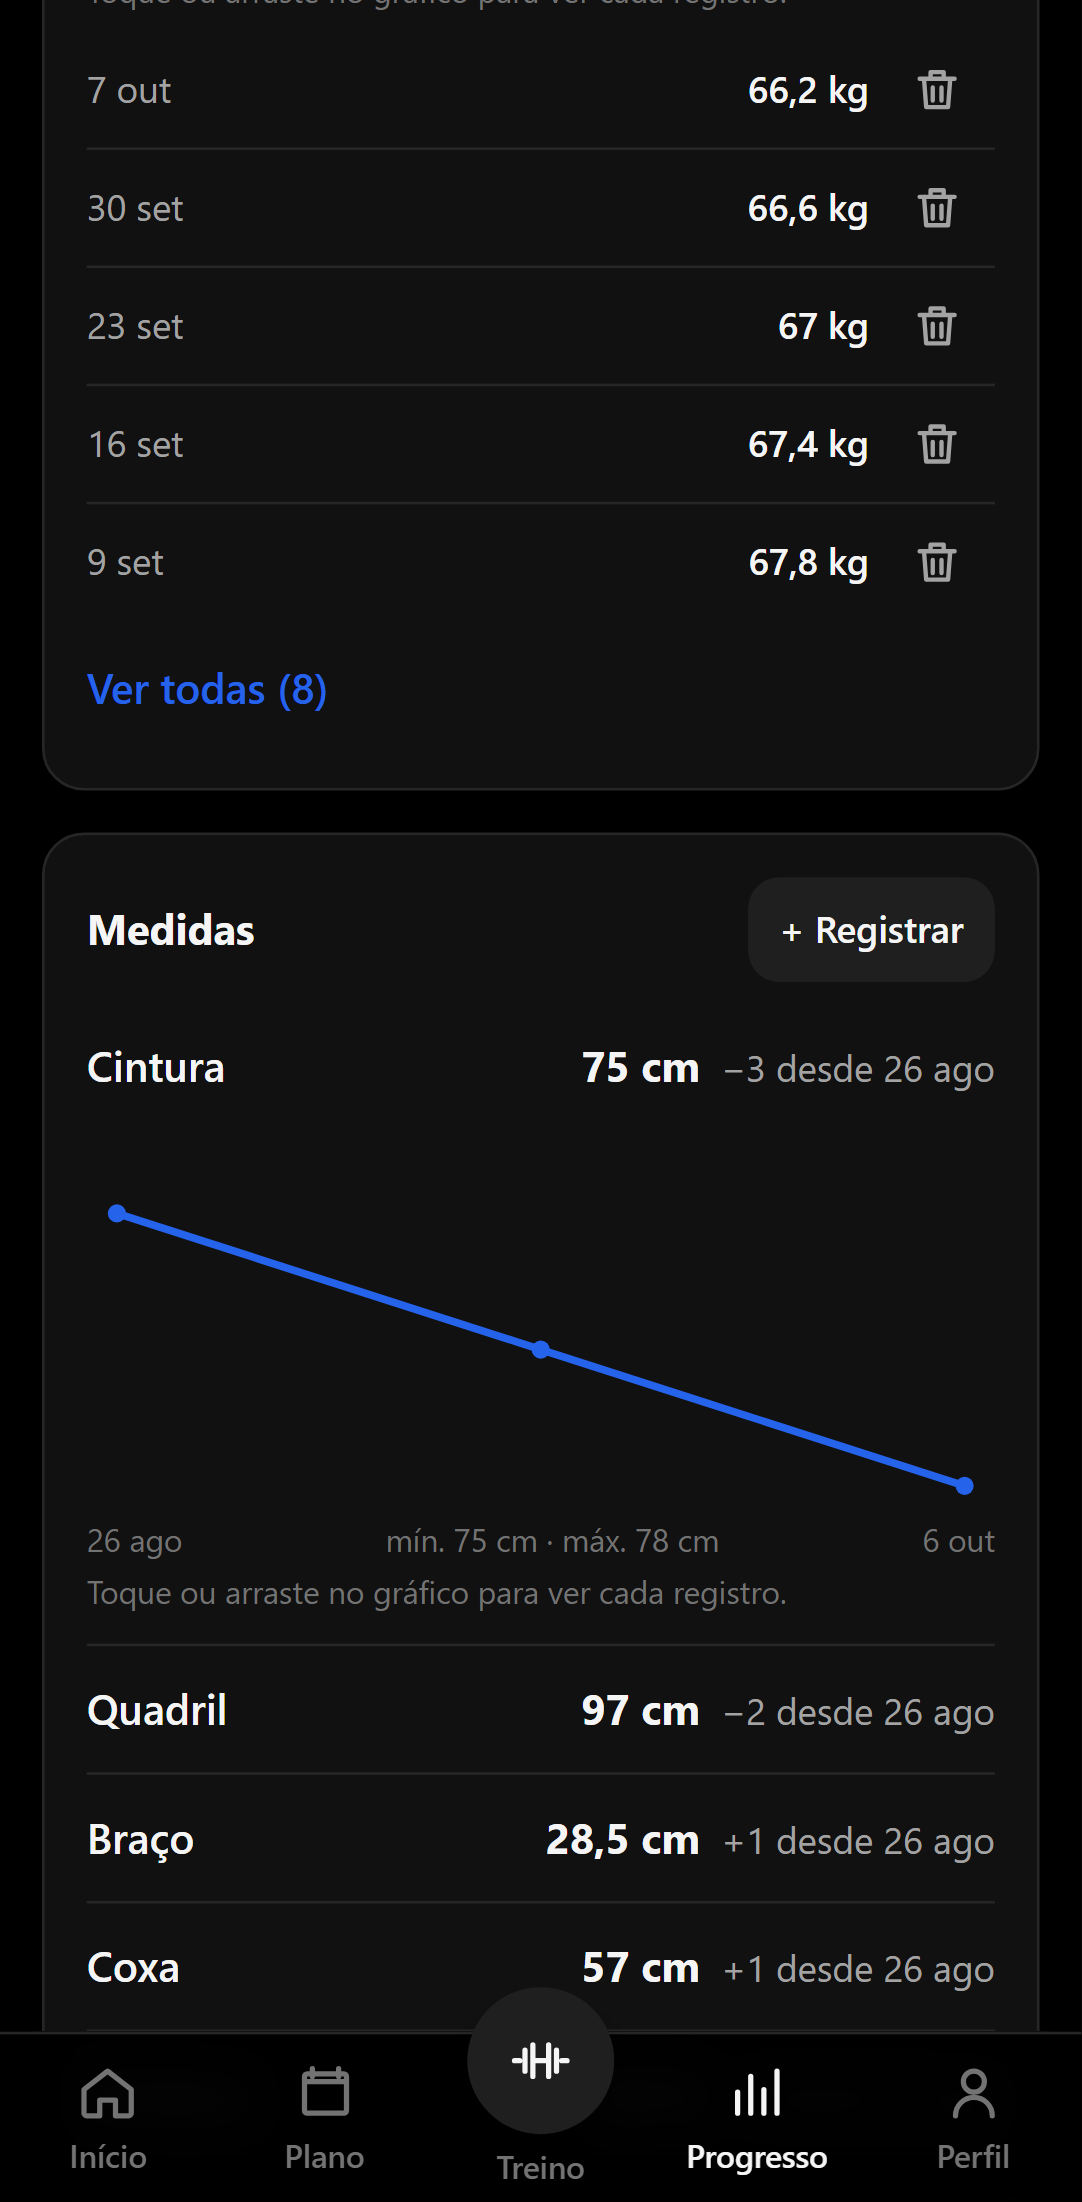
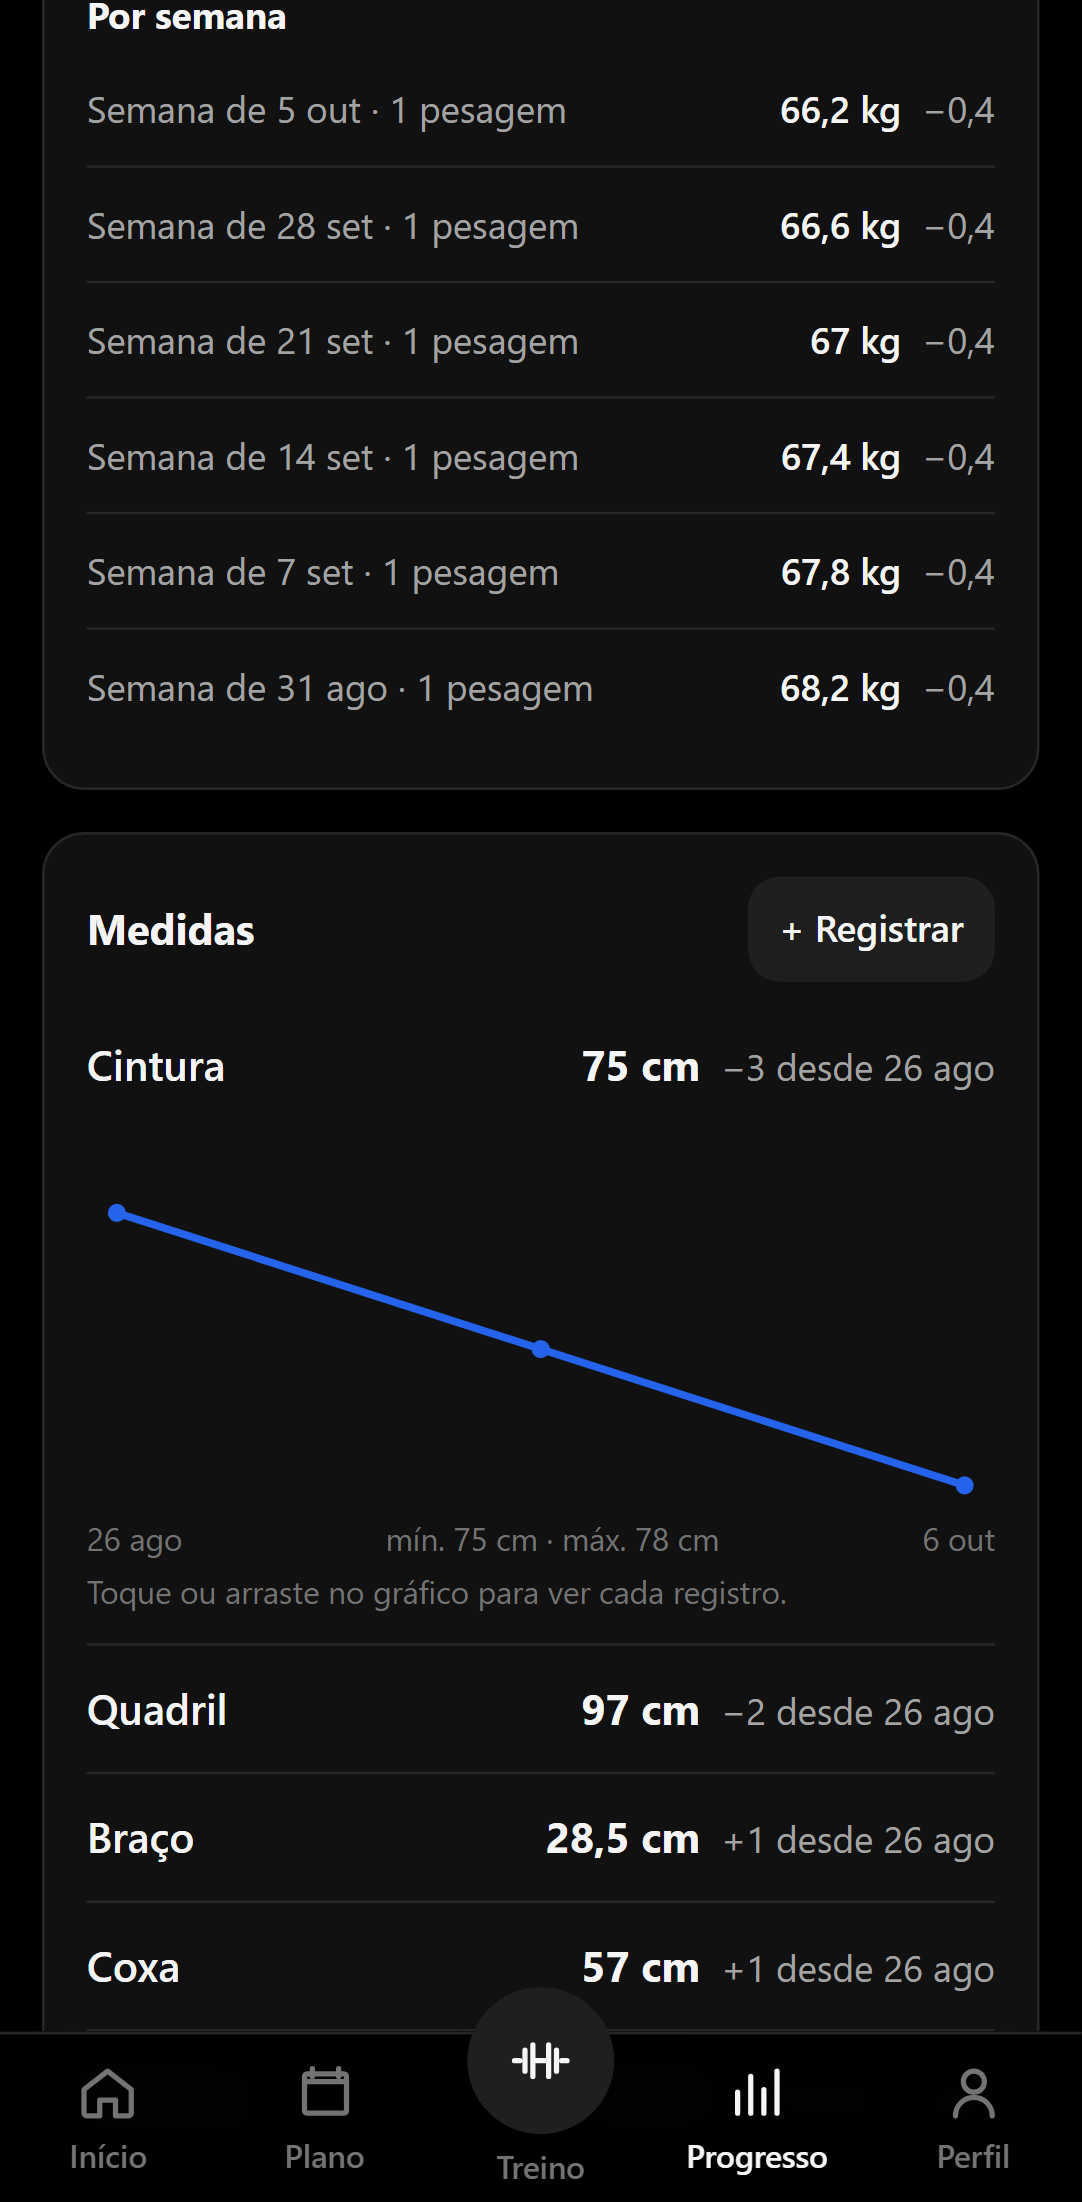
docs: capturas e funções do README atualizadas (superset, favoritos, treino livre, compartilhar plano)

diff --git a/app/scripts/screenshots/readme-screens.spec.ts b/app/scripts/screenshots/readme-screens.spec.ts
@@ -24,6 +24,9 @@ function demoData(): AppData {
   for (const day of Object.values(plan.days)) {
     day.exercises.forEach((e, i) => { if (e.mode === 'reps') e.weight = Math.max(10, 40 - i * 6); });
   }
+  // superset nos dois supinos do treino A (aparece na captura do treino)
+  const a = plan.rotation ? plan.days[plan.rotation.order[0]!] : undefined;
+  if (a && a.exercises.length > 1) { a.exercises[0]!.superset = 'demo'; a.exercises[1]!.superset = 'demo'; }
   data.plans[plan.id] = plan;
   data.activePlanId = plan.id;
 
@@ -66,7 +69,7 @@ function demoData(): AppData {
     [addDays(today, -21)]: { cintura: 76.5, quadril: 98, braco: 28, coxa: 56.5, gordura: 25.5 },
     [addDays(today, -1)]: { cintura: 75, quadril: 97, braco: 28.5, coxa: 57, gordura: 24 }
   };
-  data.settings = { ...data.settings, trainingReminders: false };
+  data.settings = { ...data.settings, trainingReminders: false, favorites: ['supino reto (barra)'] };
   data.meta = { ...data.meta, lastSeenVersion: pkg.version, lastBackupAt: NOW.toISOString(), hintsSeen: { welcome: true, progressao: true, iosInstall: true } };
   return data;
 }
@@ -100,7 +103,10 @@ test('capturas do README', async ({ page }) => {
   await expect(page.getByText(/kg:|Mantém/).first()).toBeVisible();
   const first = page.getByRole('article').first();
   await first.getByRole('button', { name: 'Série 1 feita' }).click();
-  await page.getByRole('button', { name: 'Pular' }).click();
+  // no superset a série não abre o descanso; se abrir, pula
+  const skip = page.getByRole('button', { name: 'Pular' });
+  if (await skip.isVisible()) await skip.click();
+  await page.evaluate(() => window.scrollTo(0, 0));
   await shot(page, 'treino');
 
   await page.getByRole('button', { name: 'Plano', exact: true }).click();

diff --git a/README.md b/README.md
@@ -13,10 +13,12 @@ offline, não tem anúncios nem cadastro, e os dados ficam no seu aparelho.
 
 - **Plano de treino** por dia da semana ou em **rotação A/B/C**: na rotação, o próximo treino é o
   seguinte ao último feito, em qualquer dia. Modelos prontos (corpo inteiro, em casa, ABC,
-  superior/inferior, Push/Pull/Legs, força 5×5) ou montado com ajuda de uma IA.
+  superior/inferior, Push/Pull/Legs, força 5×5), "Montar meu plano" em cinco perguntas ou com
+  ajuda de uma IA. Compartilhe o plano por arquivo, sem levar nenhum dado pessoal.
 - **Treino guiado:** séries com carga e repetições, descanso com alarme (inclusive com a tela
-  bloqueada no Android), aquecimento, troca de exercício, ilustração de cada exercício e
-  calculadora de anilhas.
+  bloqueada no Android), aquecimento, superset, série até a falha, troca que sugere o que combina
+  com o treino do dia, ilustração de cada exercício e calculadora de anilhas. Dá para adicionar
+  exercícios no meio do treino ou começar um treino livre.
 - **Progressão automática de carga:** o treino abre com a carga sugerida pelo histórico e uma
   linha dizendo o porquê ("+2,5 kg: 12 reps nas 3 séries"). Dá para preferir a carga da última vez
   ou a do plano. Nos exercícios com o peso do corpo, quem sobe são as repetições.
@@ -25,8 +27,10 @@ offline, não tem anúncios nem cadastro, e os dados ficam no seu aparelho.
 - **Peso, medidas e saúde:** pesagens com meta, medidas do corpo (cintura, braço, % de gordura…) com
   gráfico, IMC, metabolismo basal, gasto diário e água.
 - **Motivação:** sequência de treinos, níveis, XP e conquistas.
-- **Seus dados:** backup em arquivo (com senha opcional) e backup automático no Android.
-- Tema claro e escuro, e gestos para apagar ou copiar séries.
+- **Seus dados:** backup em arquivo (com senha opcional), backup automático no Android, treino
+  passado registrado depois e "Copiar como texto" para mandar o treino no WhatsApp.
+- Tema claro e escuro com cor de destaque à escolha, exercícios favoritos e gestos para apagar ou
+  copiar séries e exercícios.
 
 <p align="center">
   <img src="docs/screenshots/progresso.png" alt="Progresso: estatísticas, mapa de calor e volume semanal" width="220">
